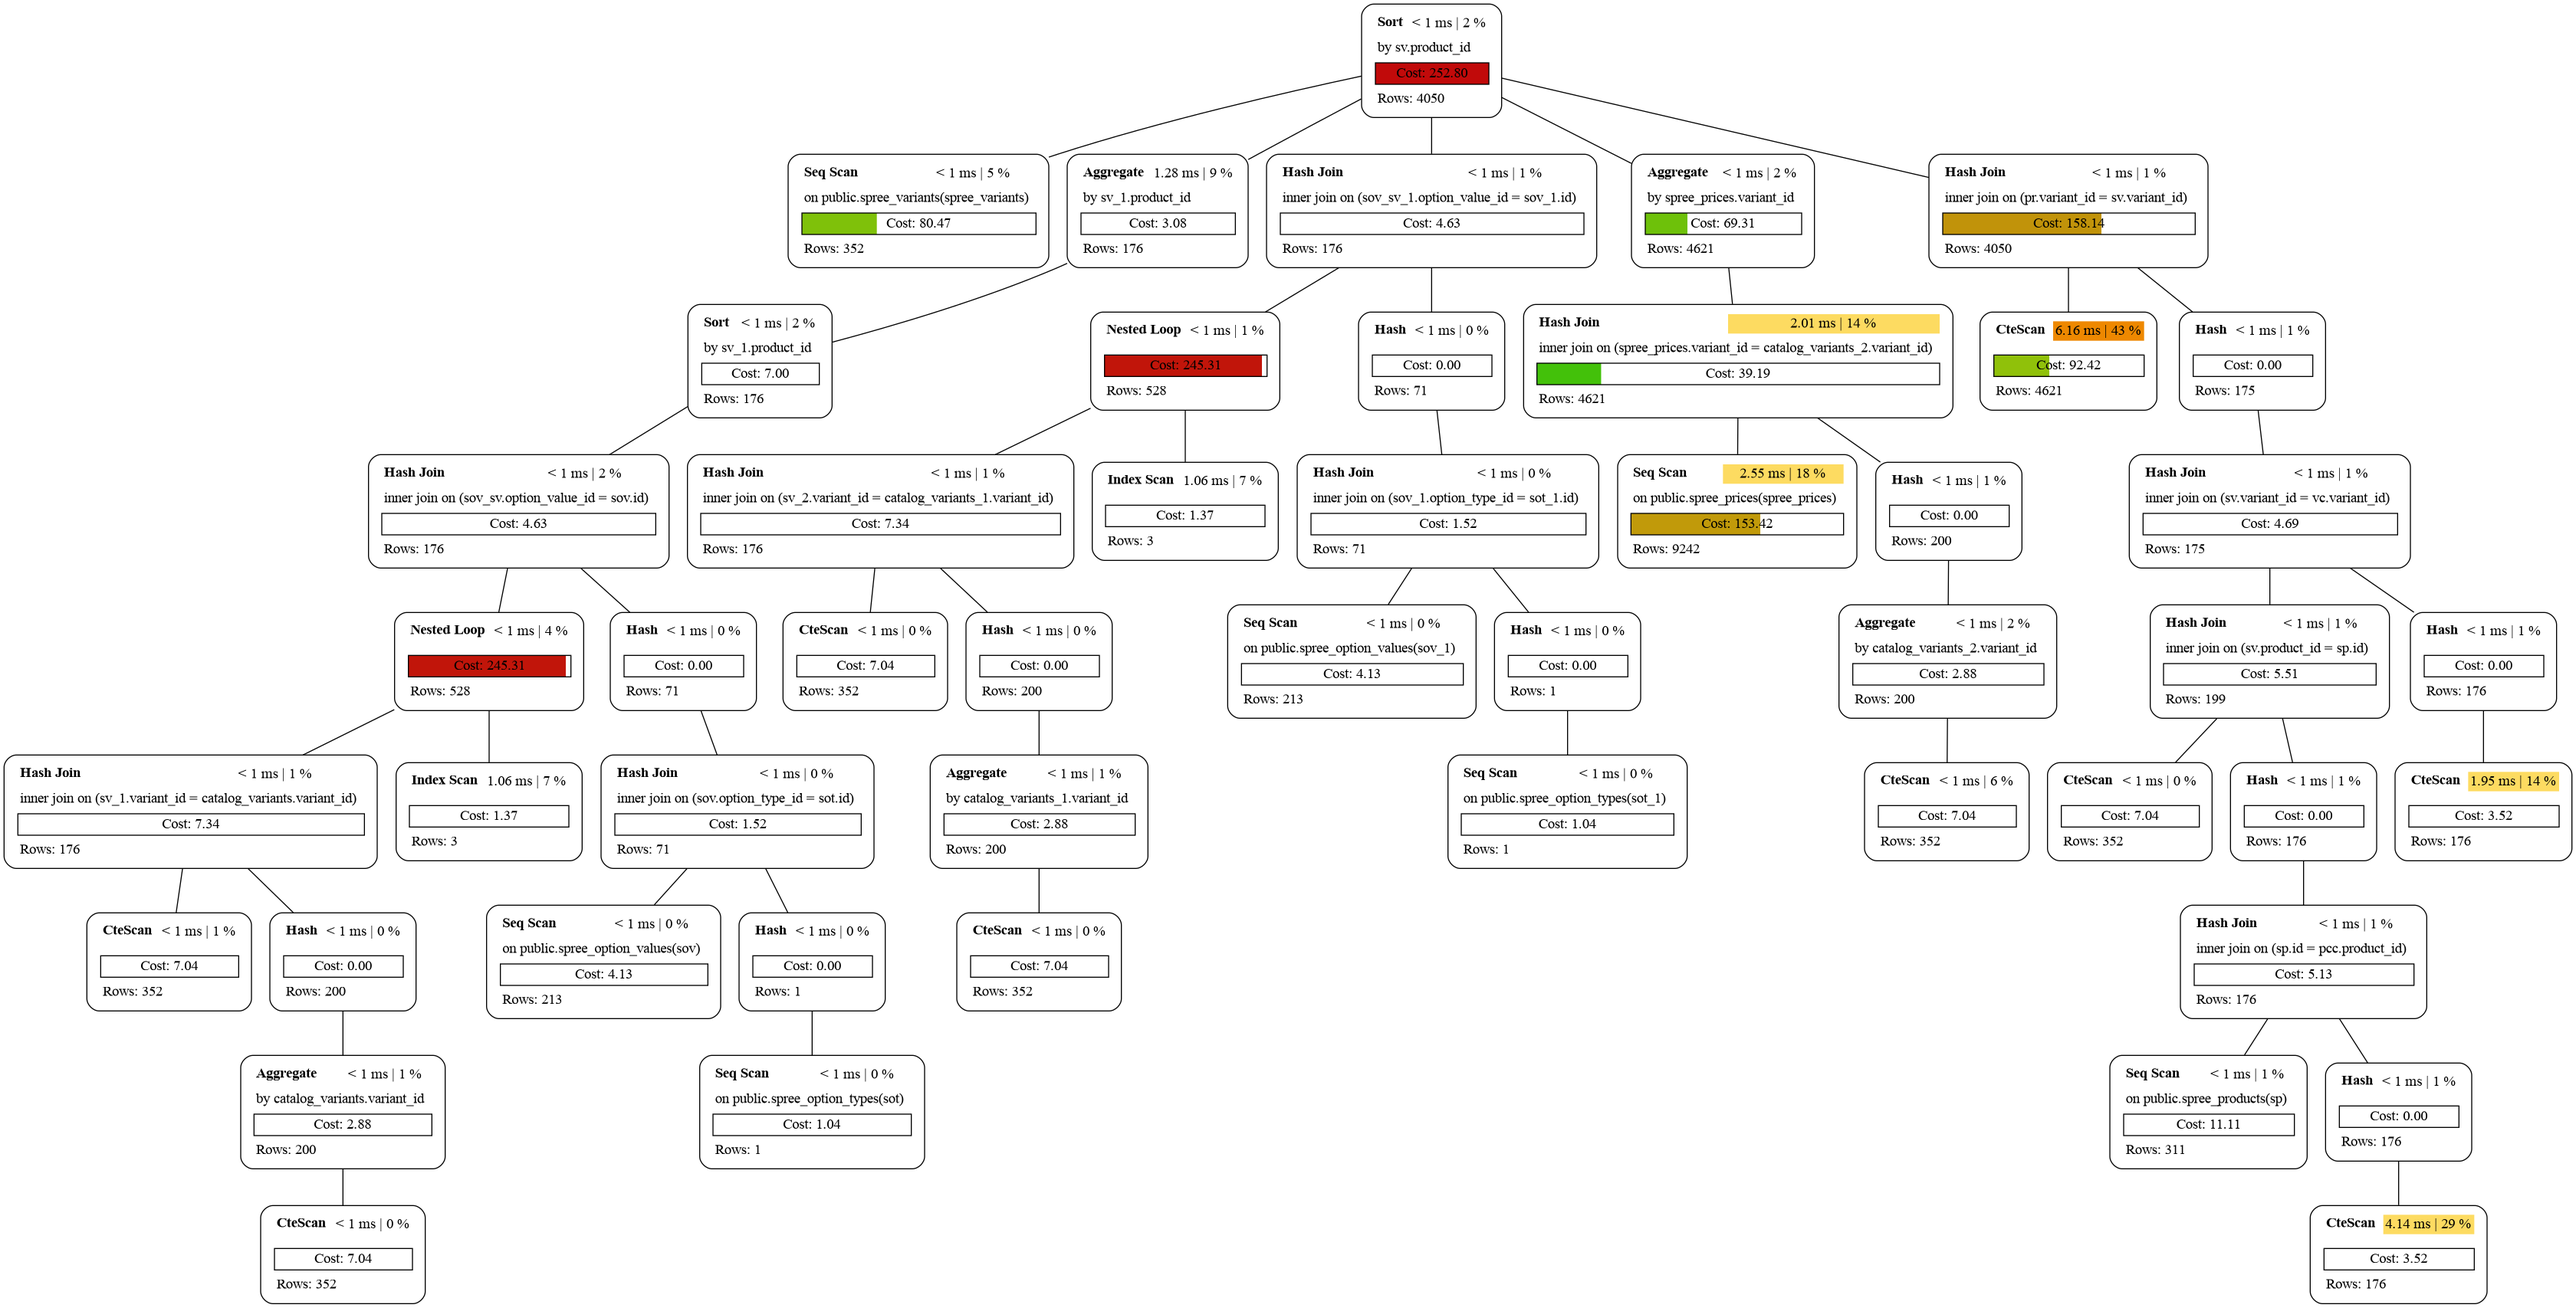
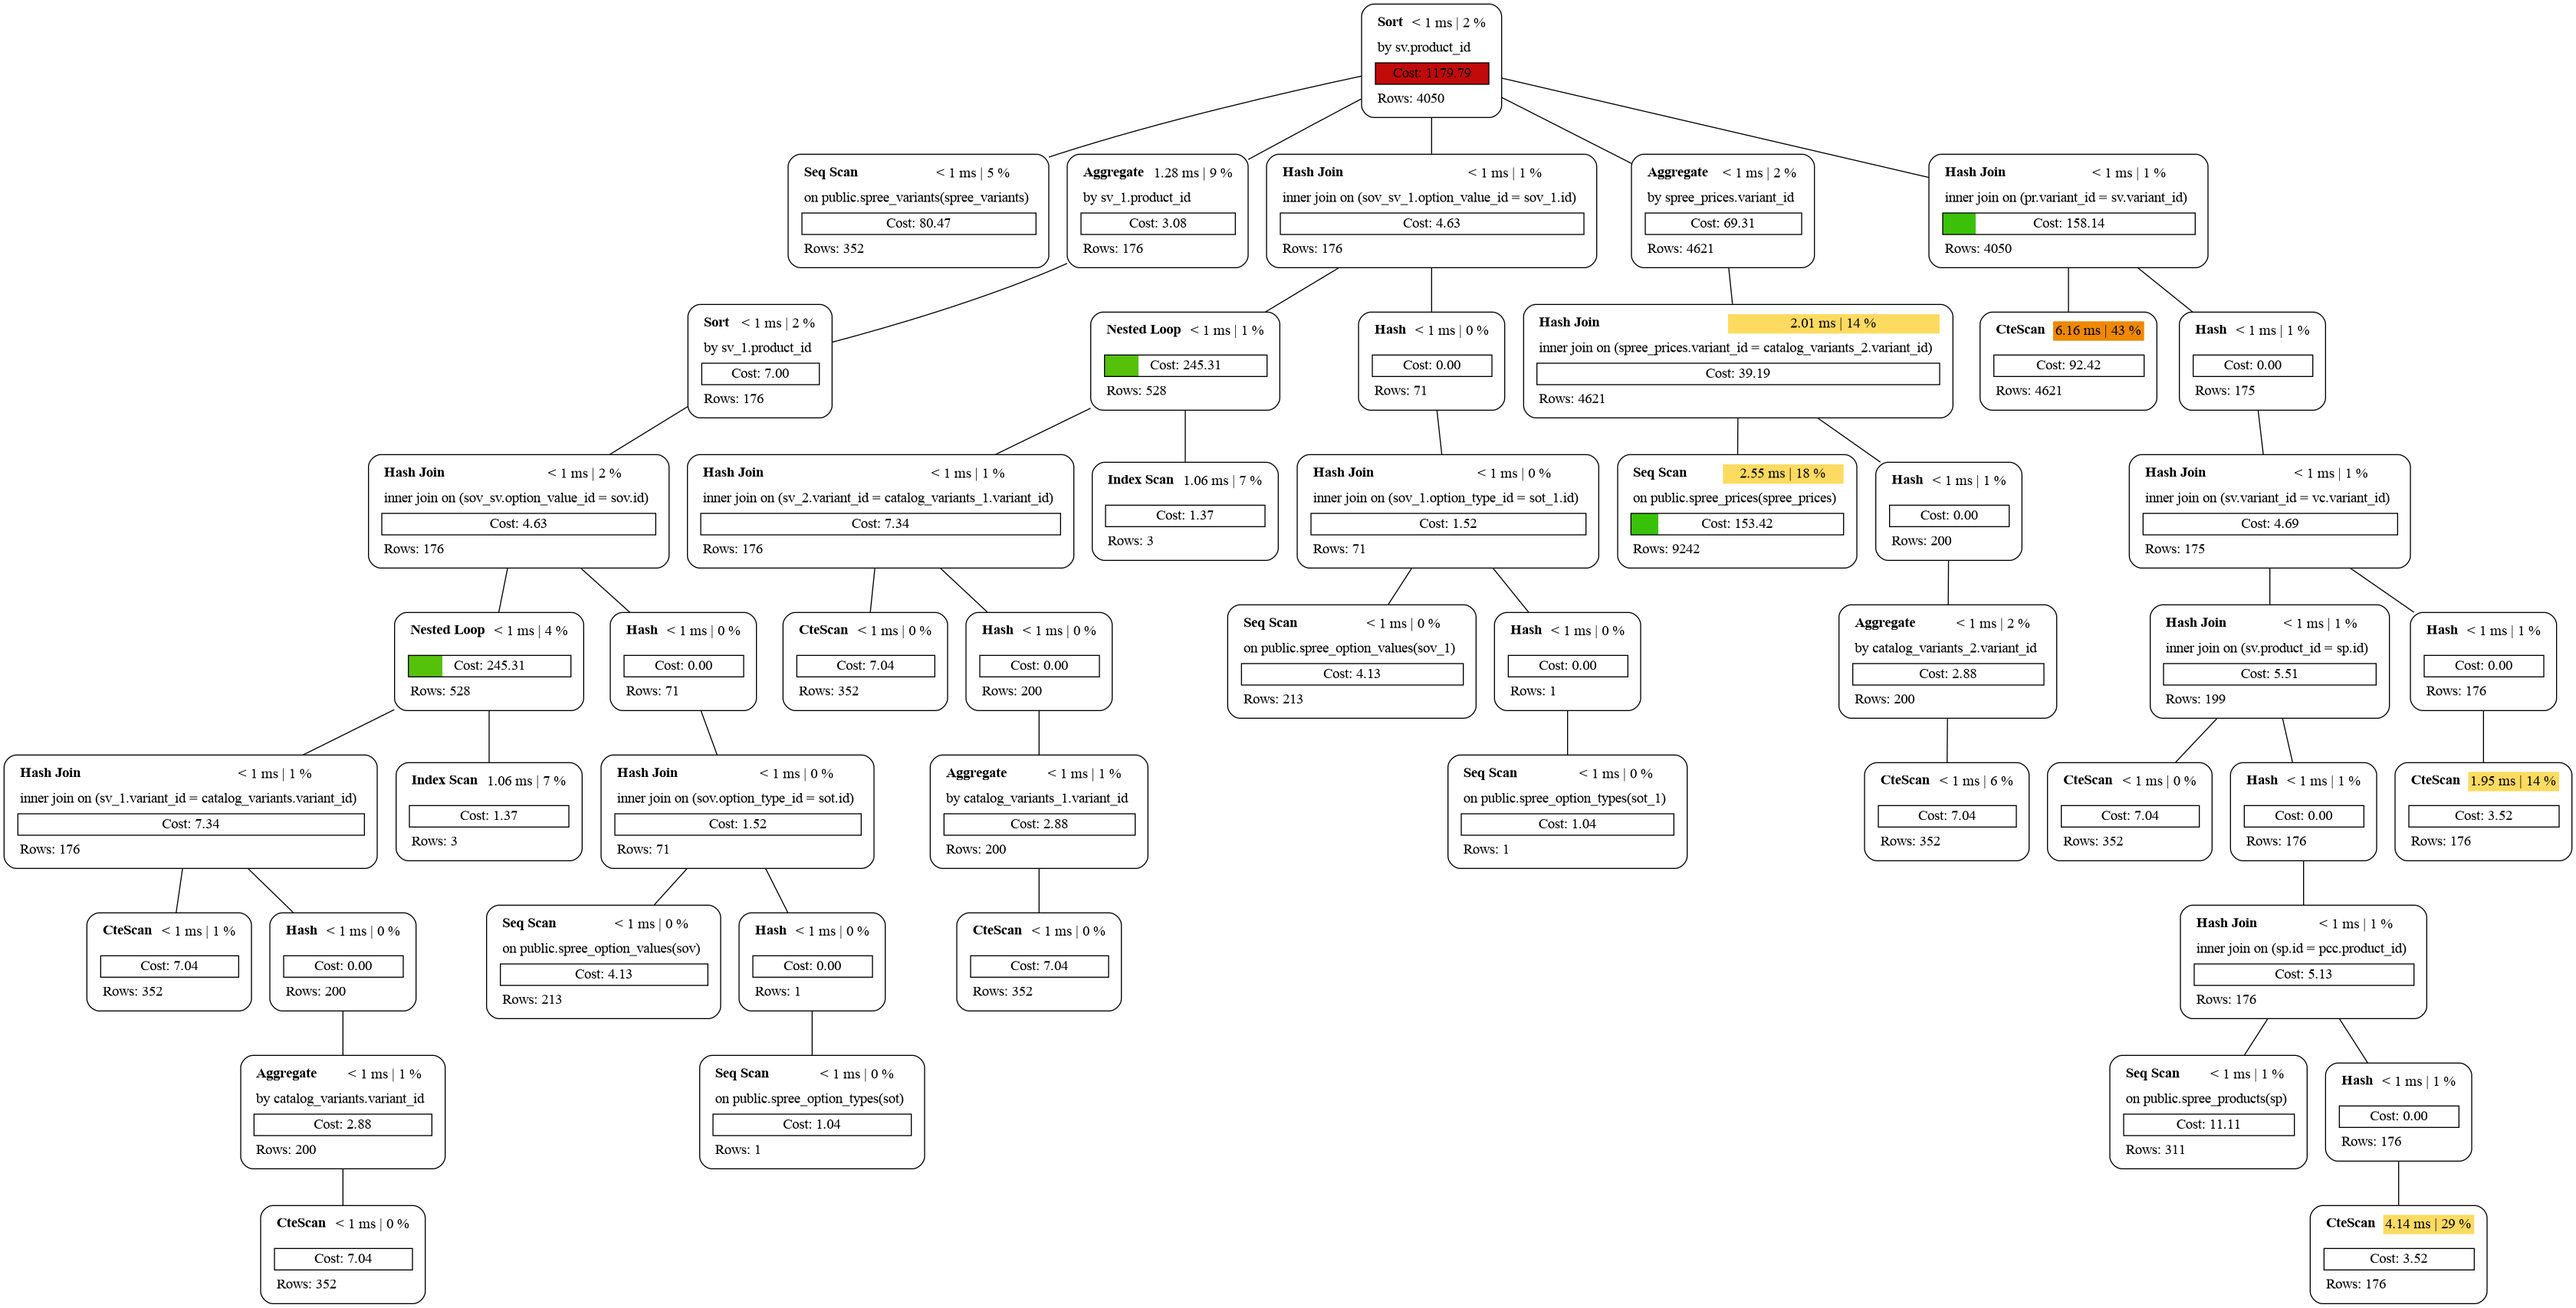
Fixes exclusive cost calculation

diff --git a/src/graph.rs b/src/graph.rs
@@ -195,7 +195,9 @@ impl Node {
         let mut cost = plan.total_cost;
 
         for child in &plan.plans {
-            cost -= child.total_cost;
+            if child.parent_relationship != Some("InitPlan".to_string()) {
+                cost -= child.total_cost;
+            }
         }
 
         cost.max(0.)
